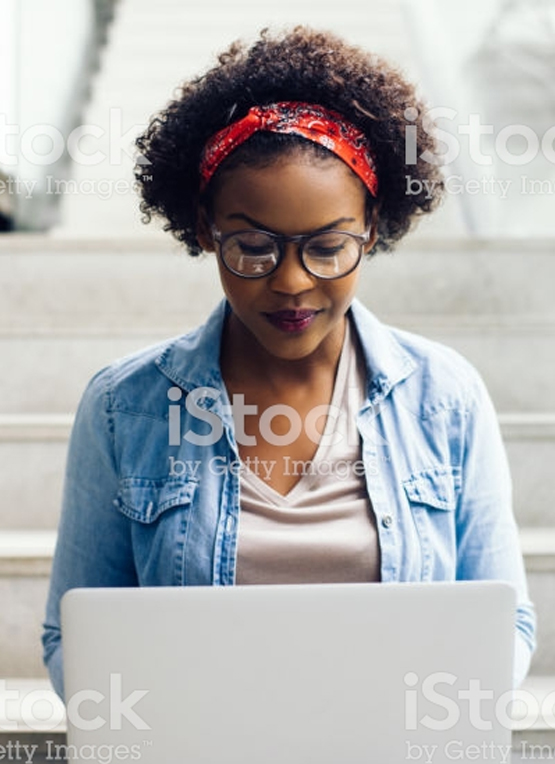
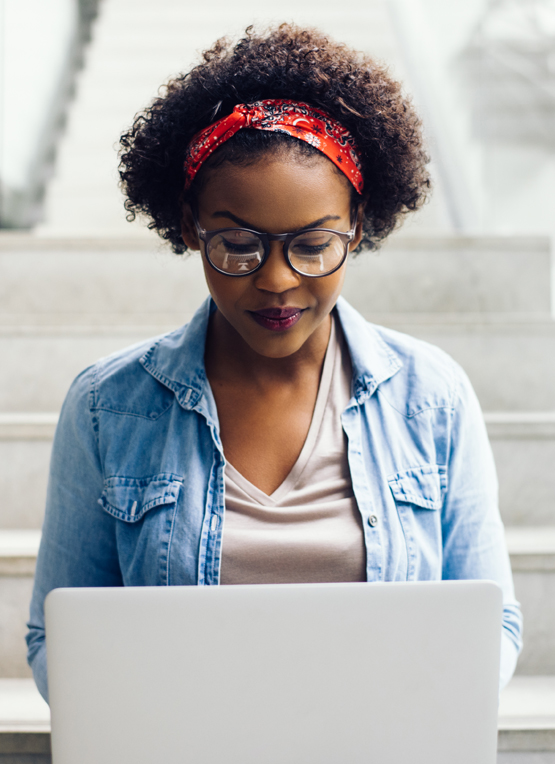
Update images without watermarks, update pricing section, update image sizing for pricing, update section spacing

diff --git a/index.html b/index.html
@@ -288,7 +288,7 @@
                                 <span class="pricing-card-price-frequency pricing-card-price-frequency-0"><span
                                         class="pricing-card-price-frequency-slash">/</span> per day</span>
                             </div>
-                            <p class="text-muted" style="margin-top: -15px;">Billed every 90 days at $84 plus GST</p>
+                            <p class="text-muted" style="margin-top: -15px;">$28 per month with 7-day free trial</p>
                         </div>
                         <!-- USD section-->
                         <div class="usd-info" style="display: none;">
@@ -298,7 +298,7 @@
                                 <span class="pricing-card-price-frequency pricing-card-price-frequency-0"><span
                                         class="pricing-card-price-frequency-slash">/</span> per day</span>
                             </div>
-                            <p class="text-muted" style="margin-top: -15px;">Billed every 90 days at $51</p>
+                            <p class="text-muted" style="margin-top: -15px;">$17 per month with 7-day free trial</p>
                         </div>
                         <!-- SING section-->
                         <div class="sing-info" style="display: none;">
@@ -308,7 +308,7 @@
                                 <span class="pricing-card-price-frequency pricing-card-price-frequency-0"><span
                                         class="pricing-card-price-frequency-slash">/</span> per day</span>
                             </div>
-                            <p class="text-muted" style="margin-top: -15px;">Billed every 90 days at $75 plus GST</p>
+                            <p class="text-muted" style="margin-top: -15px;">$25 per month with 7-day free trial</p>
                         </div>
                         <!-- GBP section-->
                         <div class="gbp-info" style="display: none;">
@@ -318,7 +318,7 @@
                                 <span class="pricing-card-price-frequency pricing-card-price-frequency-0"><span
                                         class="pricing-card-price-frequency-slash">/</span> per day</span>
                             </div>
-                            <p class="text-muted" style="margin-top: -15px;">Billed every 90 days at £45 plus VAT</p>
+                            <p class="text-muted" style="margin-top: -15px;">$15 per month with 7-day free trial</p>
                         </div>
                         <!-- EUR section-->
                         <div class="eur-info" style="display: none;">
@@ -328,7 +328,7 @@
                                 <span class="pricing-card-price-frequency pricing-card-price-frequency-0"><span
                                         class="pricing-card-price-frequency-slash">/</span> per day</span>
                             </div>
-                            <p class="text-muted" style="margin-top: -15px;">Billed every 90 days at €48 plus VAT</p>
+                            <p class="text-muted" style="margin-top: -15px;">$16 per month with 7-day free trial</p>
                         </div>
                     </div>
                     <img src="assets/img/supported-credit-cards.png"

diff --git a/css/styles.css b/css/styles.css
@@ -9973,7 +9973,7 @@ hr.light {
 }
 
 .page-section {
-  padding: 4rem 0;
+  padding: 3rem 0 1.5rem 0;
 }
 
 #mainNav {
@@ -10119,7 +10119,7 @@ header.masthead h1 {
 }
 
 .pricing-panel-img {
-  background: url('../assets/img/1-long.jpg');
+  background: url('../assets/img/1.jpg');
   background-size: cover;
   background-position: center;
   min-height: 400px;
@@ -10182,9 +10182,15 @@ header.masthead h1 {
   .pricing-panel-img, .subscribe-panel-img, .smallbusiness-panel-img {
     min-height:200px
   }
+
+  .pricing-panel-img {
+    background: url('../assets/img/1.jpg');
+    background-size: cover;
+    background-position: center;
+  }
   
   .side-panel {
-    padding: 96px 15px !important;
+    padding: 56px 15px !important;
   }
 
   .smallbusiness-panel-img {
@@ -10466,7 +10472,7 @@ header.masthead h1 {
   }
 
   .mast-btn-1 {
-    background: #e96d2d;
+    background: #9a4921;
     color: #fff;
     margin: 0;
   }
